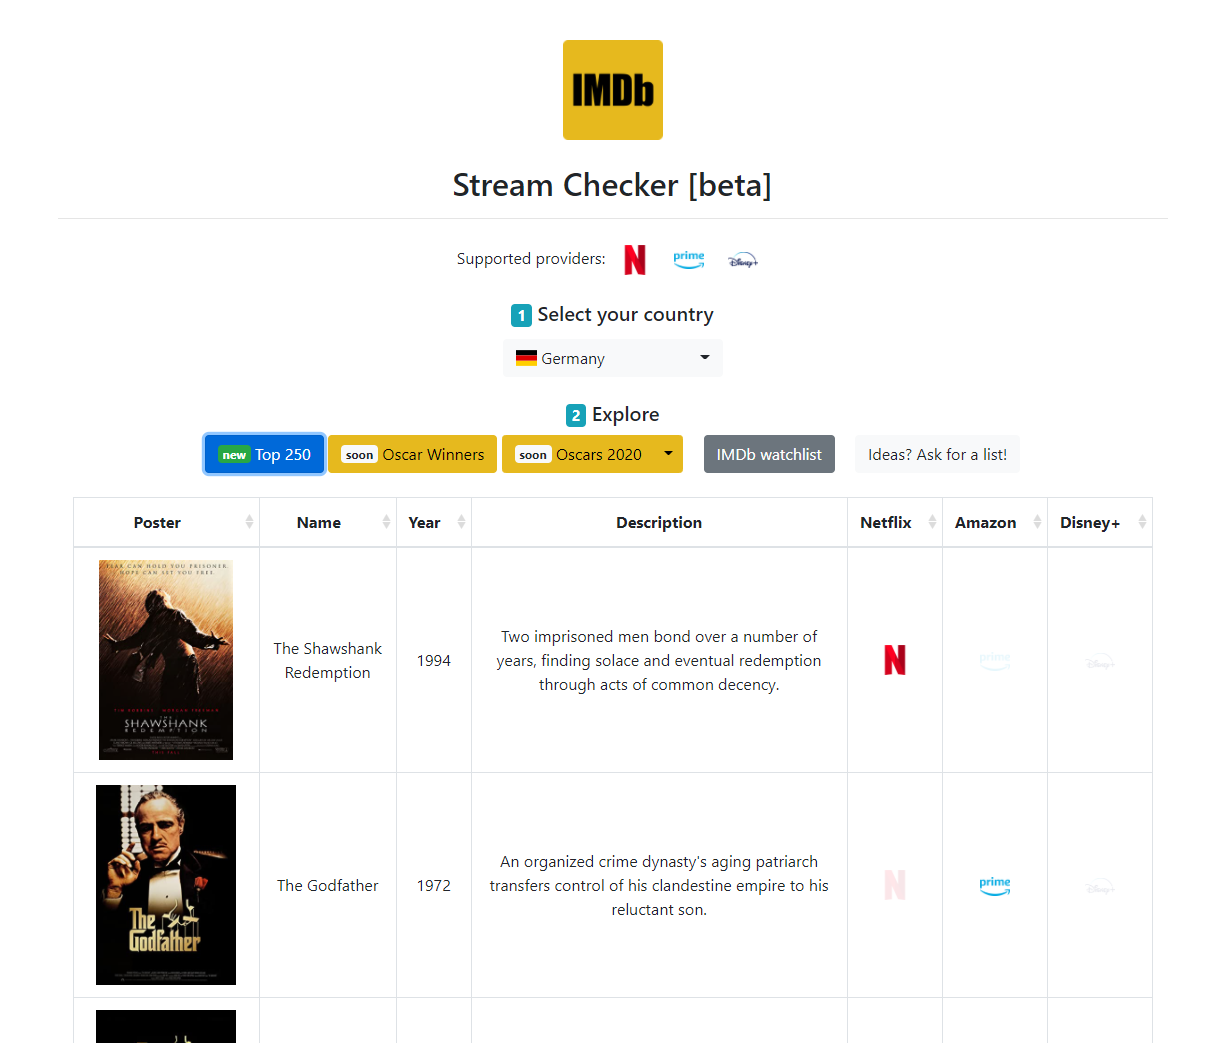
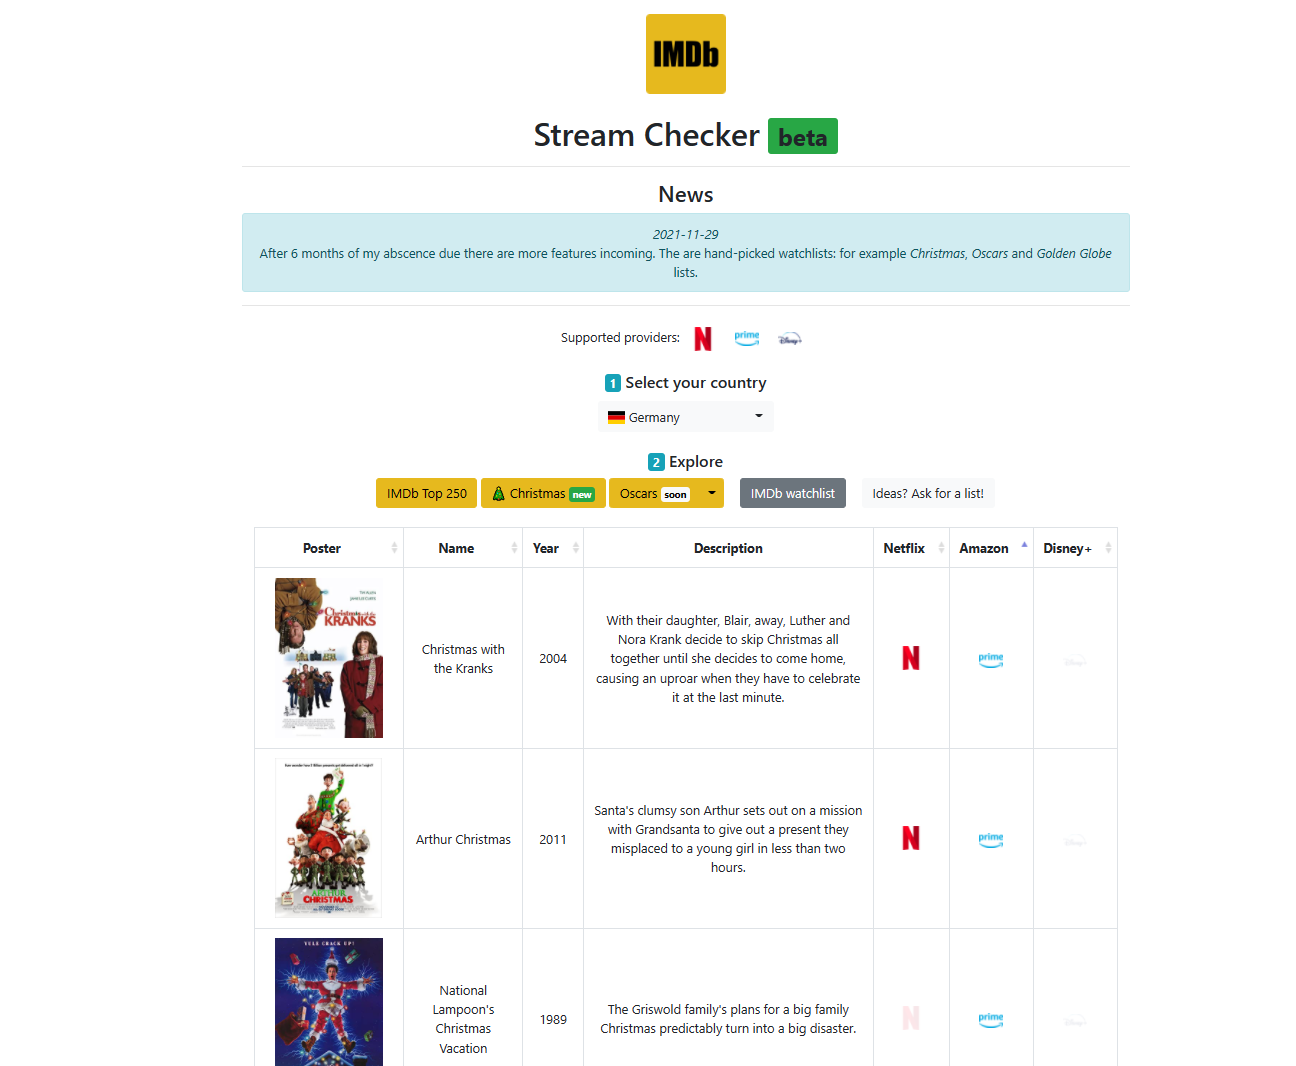
Add link to github.

diff --git a/templates/index.html b/templates/index.html
@@ -33,7 +33,8 @@
                 <img class="d-block mx-auto mb-4" src="static/assets/imdb.png" alt="" width="100" height="100" href="/">
             </a>
             <h1>Stream Checker <span class="badge bg-success">beta</span></h1>
-            
+
+            Github: <a href="https://github.com/kopytjuk/imdb-checker" class="link-primary">https://github.com/kopytjuk/imdb-checker</a>
 
             <hr/>
             <h3>News</h3>
